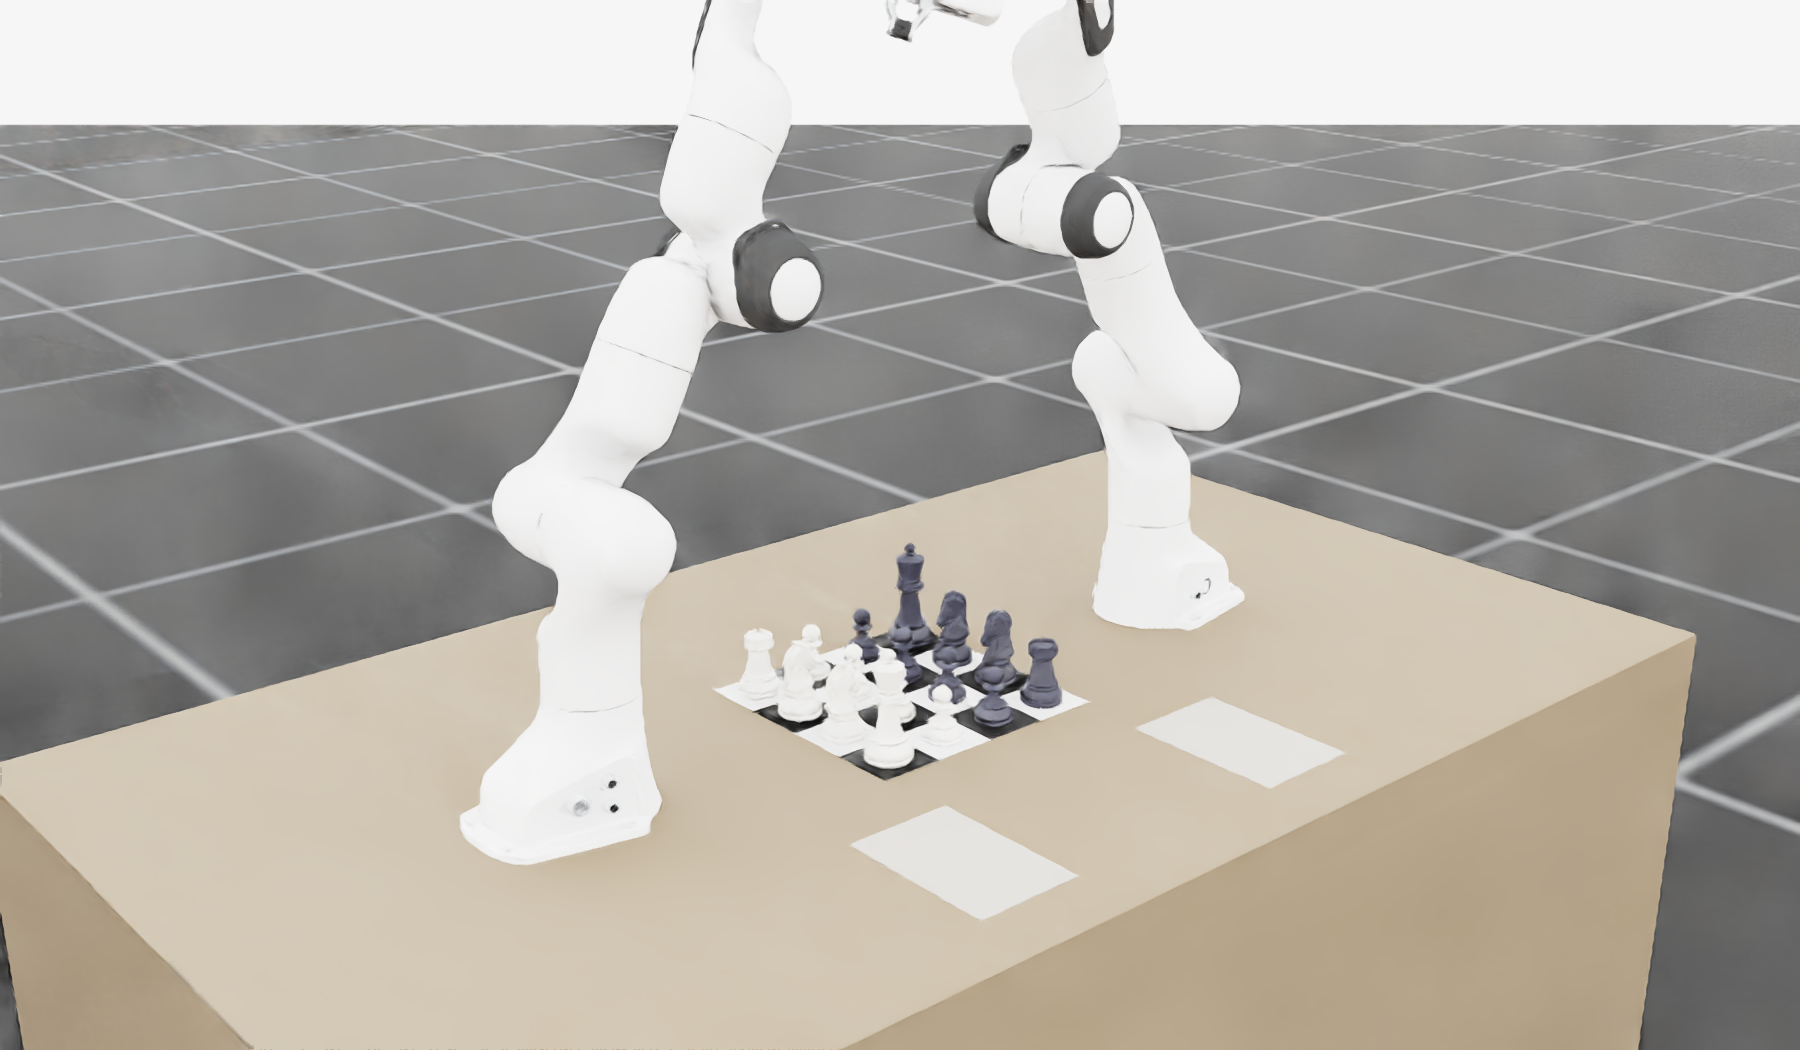
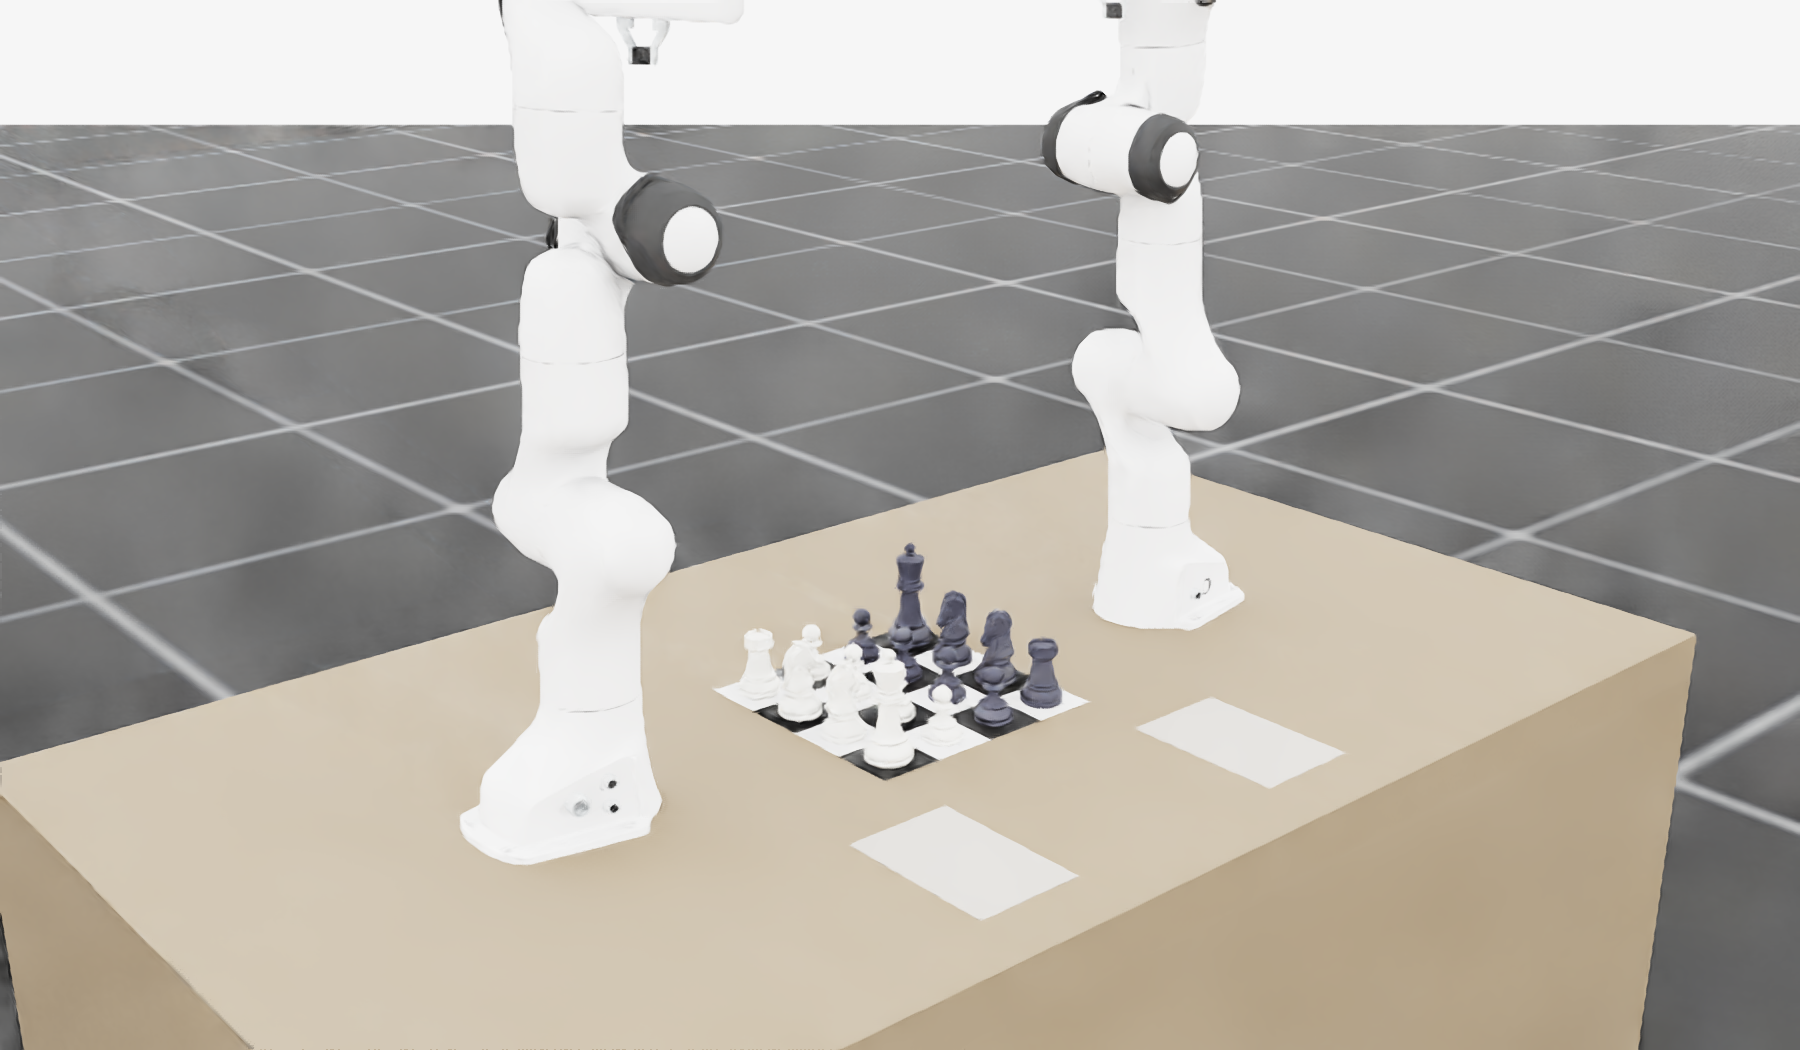
Fold facing arms back over their own bases at rest
The two arms were resting against each other before a game started. Bases sit
2 x board_distance apart -- 0.90 m for a Franka pair, each with 0.68 m of reach --
so their workspaces overlap heavily across the middle, and the single-arm home
pose reaches forward over the board, putting both wrists in the same place.

FACING_HOME_JOINT_POS gives the facing layout its own rest posture, folded back
over each base, and falls back to the single-arm home for any arm without an
entry. Verified by playing a Hexapawn game from the new posture: 5 plies to a
white win, recorded first attempt, so the arms still reach the whole board.

diff --git a/lab/source/robochess/tasks/manager_based/chess/chess_game_env_cfg.py b/lab/source/robochess/tasks/manager_based/chess/chess_game_env_cfg.py
@@ -63,6 +63,25 @@ GAME_TABLE_SIZE = (1.90, 1.10, TABLE_TOP_Z)
 
 PLAYERS = ("white", "black")
 
+FACING_HOME_JOINT_POS = {
+    # Two arms facing each other sit ``2 x board_distance`` apart -- 0.90 m for a pair of
+    # Frankas, each with 0.68 m of reach, so their workspaces overlap heavily across the
+    # middle. The single-arm home pose reaches *forward* over the board, which puts both
+    # wrists in the same place and has them resting against each other before the game
+    # even starts. These postures fold each arm back over its own base instead.
+    "franka": {
+        "panda_joint1": 0.0,
+        "panda_joint2": -1.05,
+        "panda_joint3": 0.0,
+        "panda_joint4": -2.62,
+        "panda_joint5": 0.0,
+        "panda_joint6": 1.72,
+        "panda_joint7": 0.785,
+        "panda_finger_joint.*": 0.04,
+    },
+}
+"""Per-arm rest posture for the facing-pair layout, falling back to the single-arm home."""
+
 
 @configclass
 class ChessGameSceneCfg(InteractiveSceneCfg):
@@ -262,8 +281,9 @@ class ChessGameEnvCfg(ManagerBasedRLEnvCfg):
             pos, rot = self.base_pose(player)
 
             init_state = spec.articulation.init_state.replace(pos=pos, rot=rot)
-            if spec.home_joint_pos:
-                init_state = init_state.replace(joint_pos=dict(spec.home_joint_pos))
+            home = FACING_HOME_JOINT_POS.get(spec.key, spec.home_joint_pos)
+            if home:
+                init_state = init_state.replace(joint_pos=dict(home))
             setattr(
                 self.scene,
                 entity,
